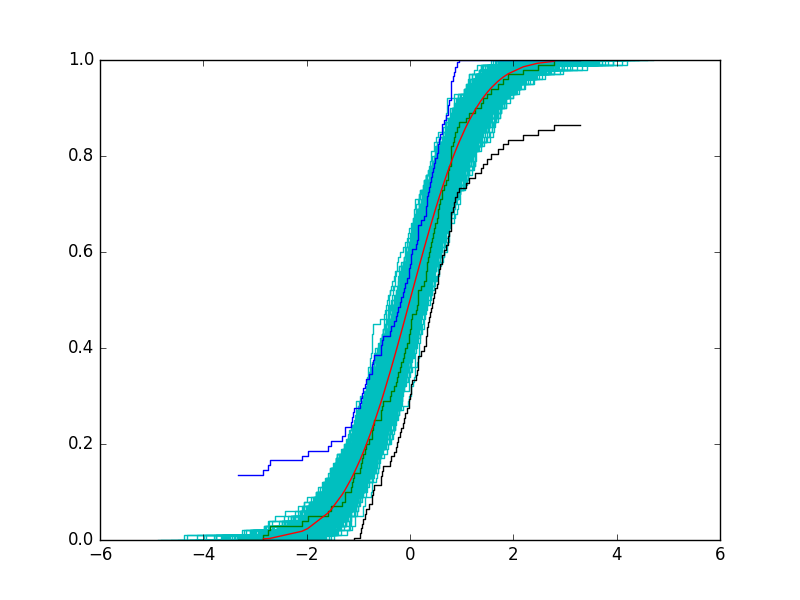
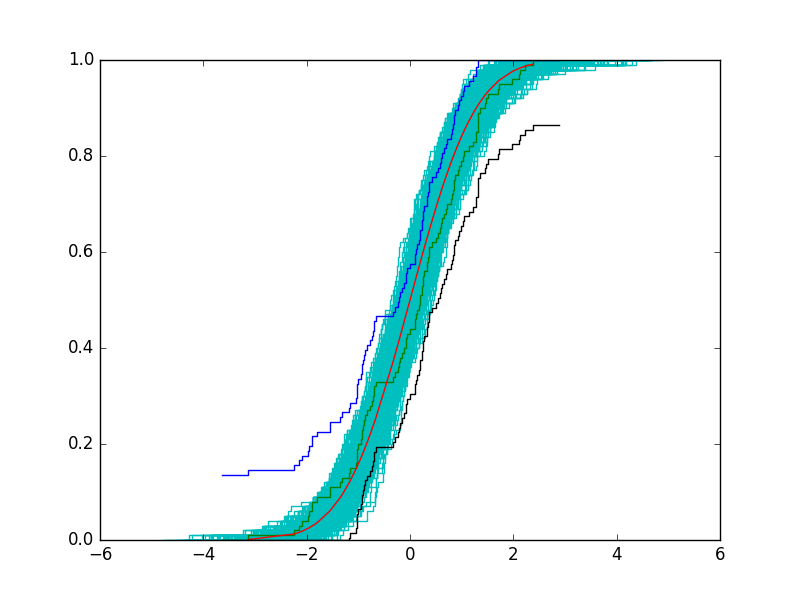
update bootstrap

Changed region(s): [[0.2188, 0.09, 0.8125, 0.9]]

diff --git a/estimate/bootstrap/mixnorm_var_bias_estimate.py b/estimate/bootstrap/mixnorm_var_bias_estimate.py
@@ -15,5 +15,74 @@ X ~ F
 X_bar ~ 4.997
 '''
 
-def mix_norm_model():
+'''
+这种产生mix_norm的方法靠谱不？
+'''
+def gen_mix_norm_samples(N):
+    mus = np.array([1, 6])
+    sigmas = np.array([2, 1])
+    mix = np.array([0.2, 0.8])
+    mix_num = mus.shape[0]
+    each_samples = np.zeros((mix_num, N))
+    for i in xrange(mix_num):
+        each_samples[i] = norm.rvs(size=N, loc=mus[i], scale=sigmas[i])
 
+    samples = np.zeros(N)
+    for i in xrange(N):
+        samples[i] = np.dot(mix, each_samples[:, i]) 
+
+    return samples
+
+def estimate_var_bias_by_bootstrap(samples, B):
+    N = samples.shape[0]
+    X_mean = samples.mean()
+    X_mean_samples = np.zeros(B)
+    for bid in xrange(B):
+        b_samples = np.zeros(N)
+        for nid in xrange(N):
+            s = np.random.randint(0, N)
+            b_samples[nid] = samples[s]
+
+        X_mean_samples[bid] = b_samples.mean()
+
+    boot_X_mean = X_mean_samples.mean()
+    boot_X_var = X_mean_samples.var()
+    bias = boot_X_mean - X_mean
+
+    print "bootstrap for B:%s, mean: %4f, boot_mean: %.4f, std: %.4f, bias: %.4f" %\
+            (B, X_mean, boot_X_mean, np.sqrt(boot_X_var), bias)
+
+    return
+
+
+def estimate_var_bias_by_knife(samples, miss_num=1):
+    N = samples.shape[0]
+    X_mean = samples.mean()
+    X_mean_samples = np.zeros(N)
+
+    for bid in xrange(N):
+        b_samples = np.hstack((samples[:bid], samples[bid+1:]))
+        X_mean_samples[bid] = b_samples.mean()
+
+    kinfe_X_mean = X_mean_samples.mean()
+    error_var = X_mean_samples.var()
+    kinfe_X_var = (N-1)*1./N * np.dot(X_mean_samples - X_mean, X_mean_samples - X_mean)
+    bias = kinfe_X_mean - X_mean
+
+    '''
+    加一个错误的输出。如果直接用 X_mean_samples.var()求样本标准差，和真实的标准差差别太大. 所以一定要用标准的方法计算
+    '''
+    print "kinfe mean: %4f, knife_mean: %.4f, std: %.4f, std(error): %.4f, bias: %.4f" %\
+            (X_mean, kinfe_X_mean, np.sqrt(kinfe_X_var), np.sqrt(error_var), bias)
+
+    return
+
+
+if __name__ == "__main__":
+    B_list = np.array([5, 10, 50, 100, 200, 300, 400, 500, 600, 700, 800, 900, 1000])
+    samples = gen_mix_norm_samples(200)
+    for B in B_list:
+        estimate_var_bias_by_bootstrap(samples, B)
+    
+    print ""
+    estimate_var_bias_by_knife(samples, B)

diff --git a/estimate/bootstrap/coef_confidence_interval_estimate.py b/estimate/bootstrap/coef_confidence_interval_estimate.py
@@ -8,17 +8,12 @@ import pdb
 
 
 '''
-LSAT (Y)    576 635 558 578 666 580 651 605 653 575 545 572
-GPA (Z) 3.39    3.30    2.81    3.03    3.44    3.07    3.36    3.13    3.12    2.74    2.76    2.88
-
 估计相关系数及相关系数估计的置信区间（和假设渐进正态的结果进行比较）
 要画出直方图
-
 '''
 
 def coef(samples):
     dm = samples.T - samples.mean(axis=1)
-
     cov = np.dot(dm.T, dm)
     cf = cov[0, 1] / np.sqrt(cov[0,0]*cov[1,1])
 
@@ -42,7 +37,7 @@ def estimate_coef(samples, B):
 '''
 这是一个错误的算法
 '''
-def get_ppf_but_error(samples, alpha):
+def get_interval_but_error(samples, alpha):
     samples.sort()
     m = samples.mean()
     cf = 1 - alpha
@@ -67,9 +62,9 @@ def get_ppf_but_error(samples, alpha):
     return [samples[li], samples[hi]]
 
 '''
-find the min interval which cover (1-alpha) data
+find the min interval which cover (1-alpha) samples 
 '''
-def get_ppf(samples, alpha):
+def get_interval(samples, alpha):
     samples.sort()
     cf = 1 - alpha
     N = samples.shape[0] 
@@ -111,5 +106,5 @@ if __name__ == "__main__":
     plt.hist(coefs, bins = group_count, normed=True, color='r', alpha=0.6)
     plt.savefig('images/coef_confidence.png', format='png')
     
-    cf = get_ppf(coefs, alpha)
+    cf = get_interval(coefs, alpha)
     print "estimate confidence interval for B times is: [%.4f, %.4f]" % (cf[0], cf[1])

diff --git a/estimate/nonparametric/char7.py b/estimate/nonparametric/char7.py
@@ -1,0 +1,40 @@
+#encoding: utf8
+
+import numpy as np
+from scipy.stats import norm
+
+'''
+ex9
+h_p1 = 1/n sum(X1i)
+h_p2 = 1/n sum(X2i)
+
+h_V1 = h_p1*(1 - h_p1)    
+h_V2 = h_p2*(1 - h_p2)
+
+theta = p1 - p2
+h_theta = h_p1 - h_p2
+
+h_V_p1 = h_V1/n1
+h_V_p2 = h_V2/n2
+
+h_se_theta = sqrt(h_V_p1 + h_V_p2) 
+'''
+
+h_p1 = 90./100
+h_p2 = 85./100
+
+h_theta = h_p1 - h_p2
+
+#注意：这儿求的是 theta的方差估计， theta = 1/n * sum(Xi), 故而方差为1/(n**2) * (n * var(Xi)) = 1/n * p(1-p)
+#这就是计算方差的公式，也比较好理解： n个IID的随机变量的均值也是随机变量，它的均值为1/nsum(Xi), 方差也是1/nVar(Xn)
+
+h_se_theta = np.sqrt(0.9*0.1/100. + 0.85 * 0.15/100.) 
+
+alpha = 0.2
+delta = h_se_theta * norm.ppf(1-2*alpha)
+print "confidence interval for alpha=%s is: %s" % (alpha, [h_se_theta - delta, h_se_theta + delta])
+
+alpha = 0.025
+delta = h_se_theta * norm.ppf(1-2*alpha)
+print "confidence interval for alpha=%s is: %s" % (alpha, [h_se_theta - delta, h_se_theta + delta])
+

diff --git a/estimate/nonparametric/estimate_faithful_eruption.py b/estimate/nonparametric/estimate_faithful_eruption.py
@@ -27,8 +27,6 @@ confidence_interval = np.array([hat_x_e - z_2a * hat_se, hat_x_e + z_2a * hat_se
 
 print "%s confidence interval for mean is: %s" % (1-alpha, confidence_interval)
 
-pdb.set_trace()
-
 sorted_data = np.sort(etime)
 N = sorted_data.shape[0]
 alpha = 0.05

diff --git a/estimate/ising_denosing_by_mcmc.py b/estimate/ising_denosing_by_mcmc.py
@@ -111,5 +111,3 @@ if __name__ == "__main__":
     plt.clf()
     plt.imshow(X, cmap='gray')
     plt.savefig('images/la_denoising_by_gibbs.png', format='png')
-
-
